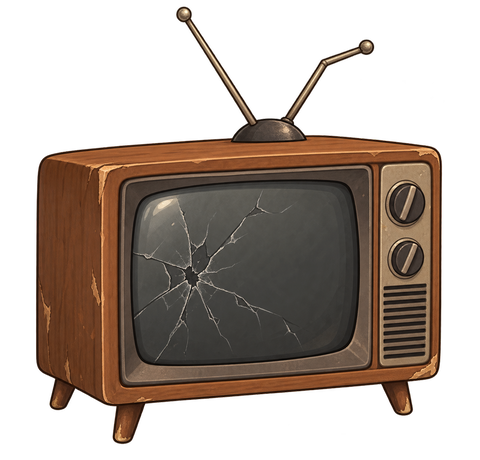
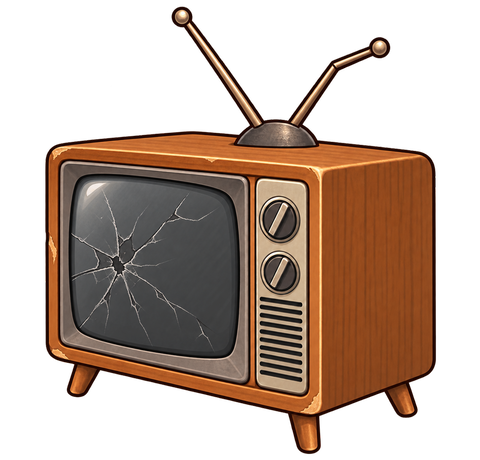
art: turn both television states toward the sofa

diff --git a/docs/ART_STATUS.md b/docs/ART_STATUS.md
@@ -185,3 +185,9 @@ Godot 450×1000, стадии0 и3: коврик под героинями не 
 После остановки зависшего запроса повторная генерация успешно завершилась: room/room_chest.png 360×420 RGBA. Небольшой деревянный комод с тремя ящиками и короткими ножками, стиль и ракурс по готовой кровати. Встроенный imagegen: один отдельный предмет, медовое дерево, крупные формы, коричневый контур, мягкое затенение, без фона/предметов сверху/внешней тени. Размер и прозрачный угол проверены, импорт Godot прошёл. Пропорции при подготовке сохранены.
 
 Все пять предметов первой комнаты теперь переданы; комод ещё требует расстановки Opus и проверки в цельной комнате. Последняя принятая расстановка четырёх остальных — ed3728f, кроме ранее отправленного замечания по скрытой тумбочке. Следующий шаг — приёмка интеграции комода и кухни, затем согласованный ТВ к дивану и позы с мишкой. Код не менялся.
+
+### Телевизор повернут к дивану
+
+По ART_BRIEF заменены living/living_tv_fixed.png и living_tv_broken.png, оба 480×460 RGBA. Фронт смотрит влево, справа видна боковина; кнопки сохранены справа от экрана (это поворот, не зеркальное отражение). Встроенный imagegen: сначала поворот целого ТВ с сохранением внешнего вида, затем повреждения на той же геометрии — тёмный экран с трещиной, небольшие сколы. Размеры/прозрачный угол и импорт проверены. Между состояниями есть небольшое отличие силуэта от генерации, без смены ракурса.
+
+Godot 450×1000, стадия16: экран направлен к дивану слева, ТВ у правой стены; кадр reviews/2026-09-26-tv-left/vita-tv-left-review.png. Замечание расстановки Opus: маленький столик перед ТВ закрывает нижнюю левую часть экрана, стоит сдвинуть к дивану/вперёд, оставив экран открытым. Нижнюю часть ТВ временно перекрывает также реплика. Физический Android не проверялся. Далее — позы Виты с мишкой, наполнители санузла/гостиной и приёмка новых расстановок.
